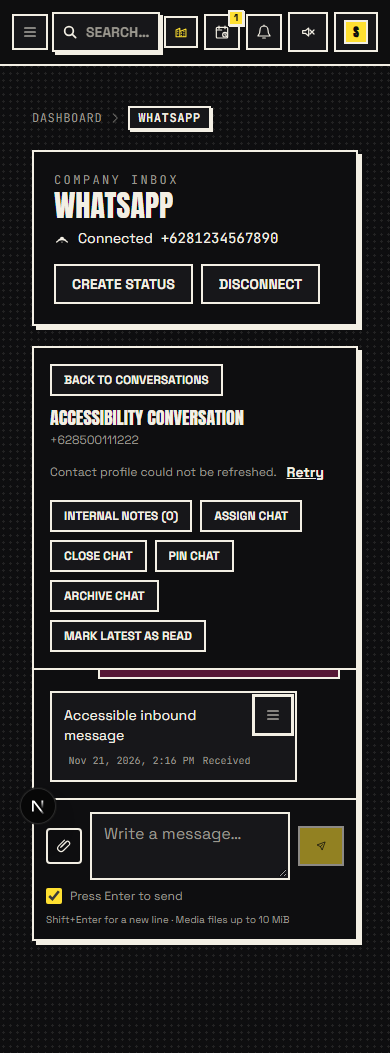
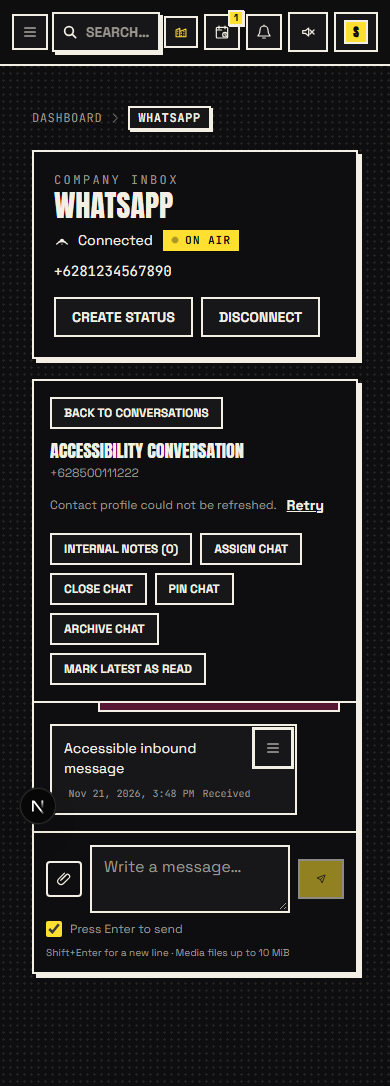
fix(board): resolve mobile-320 inbox status wrapping and settle visual audit snapshots

Changed region(s): [[0.0615, 0.0912, 0.9538, 0.9117], [0.0308, 0.0, 0.9846, 0.0608]]

diff --git a/apps/board/e2e/visual-audit.spec.ts b/apps/board/e2e/visual-audit.spec.ts
@@ -1081,7 +1081,7 @@ test('empty and unavailable story workbench states explain the next action', asy
 test('responsive protected screens fit and remain accessible in both themes', async ({
   page,
 }, testInfo) => {
-  test.setTimeout(240_000);
+  test.setTimeout(360_000);
   await page.setViewportSize({ width: 1440, height: 1000 });
   await page.goto('/login');
   await page.getByLabel('Email or Username').fill('superadmin');
@@ -1223,6 +1223,7 @@ test('responsive protected screens fit and remain accessible in both themes', as
             )
             .toBe(!originalThemeIsDark);
           await page.getByRole('button', { name: /^User menu for/u }).click();
+          await expect(page.getByRole('menuitem', { name: 'Toggle theme' })).toBeVisible();
           await page.getByRole('menuitem', { name: 'Toggle theme' }).click();
           await expect
             .poll(() =>

diff --git a/apps/board/src/board-pages/whatsapp-page.tsx b/apps/board/src/board-pages/whatsapp-page.tsx
@@ -1736,7 +1736,7 @@ function WhatsappInbox({ inboxPreferenceScope }: { inboxPreferenceScope: string 
             Company inbox
           </p>
           <h1 className="font-display text-3xl uppercase">WhatsApp</h1>
-          <p className="mt-1 flex items-center gap-2 text-sm">
+          <p className="mt-1 flex flex-wrap items-center gap-2 text-sm">
             {statusIcon}
             <span>{statusLabel[status] ?? status}</span>
             <LiveIndicator
